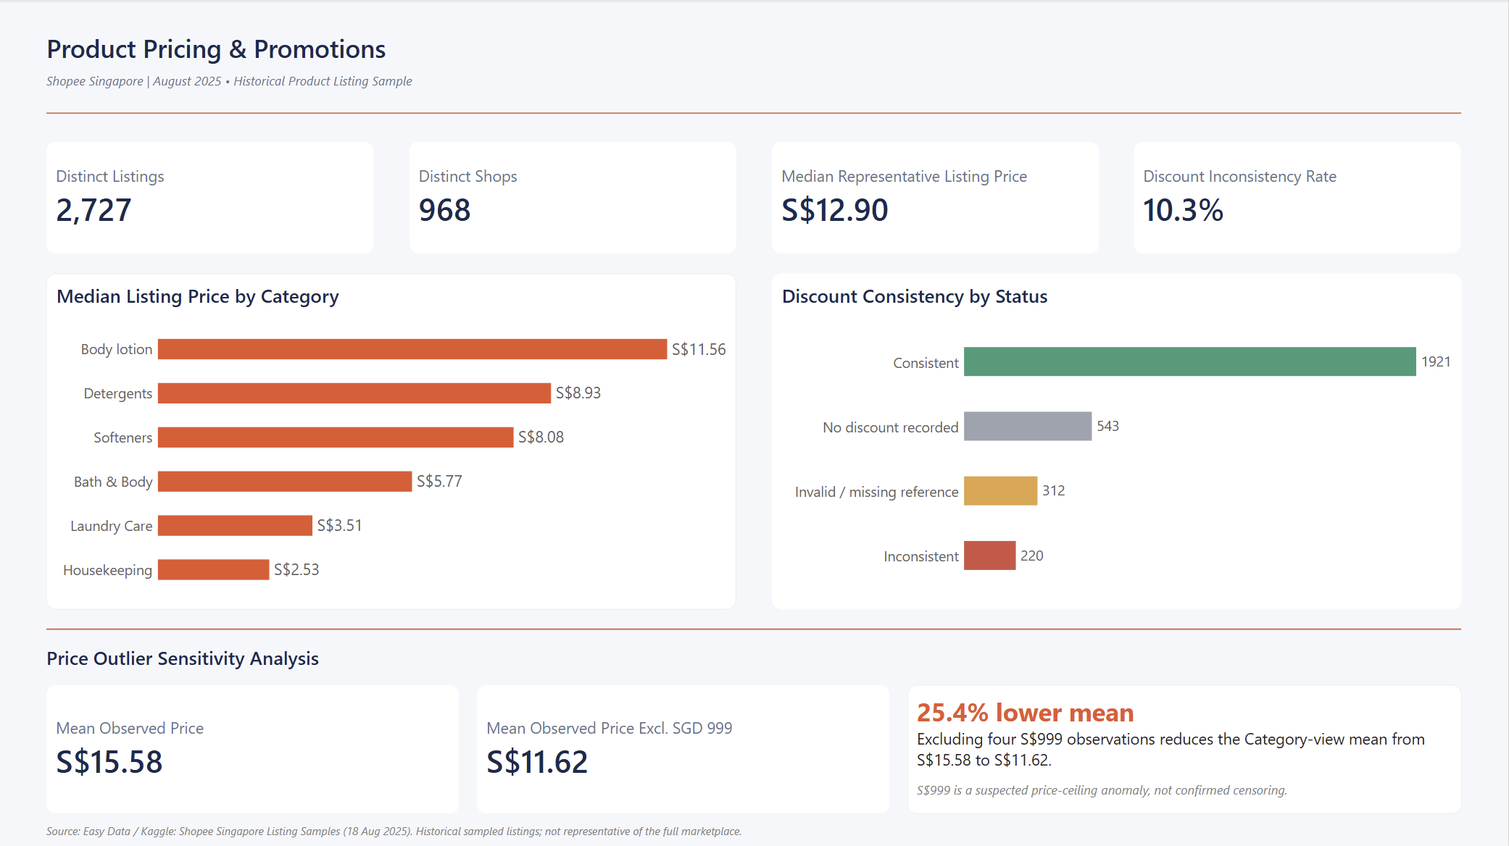
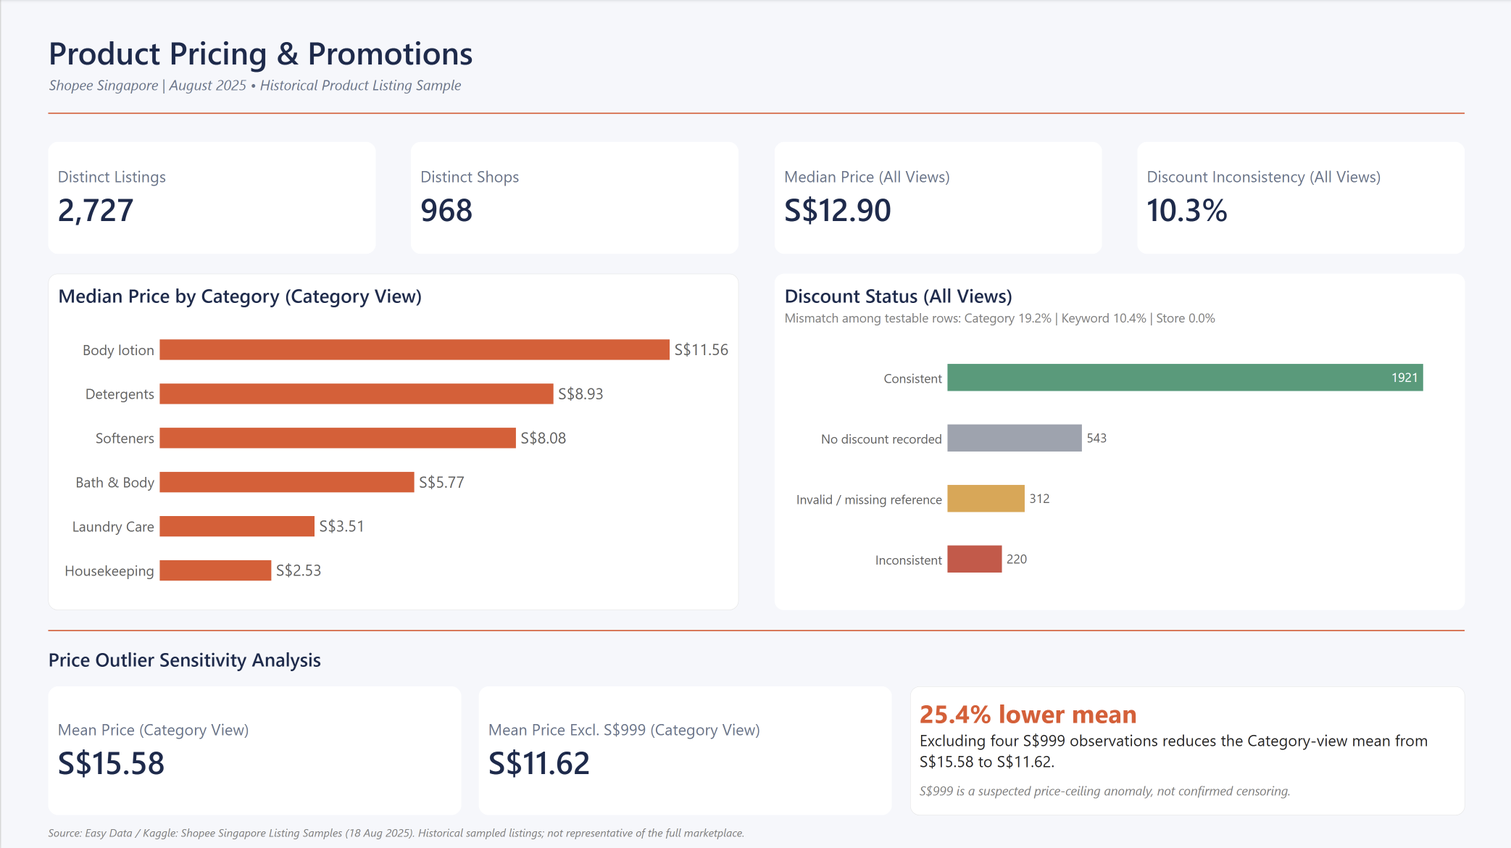
docs: align ecommerce portfolio with final dashboard and audit
- Replace both dashboard screenshots with the final versions; Page 2 file is
  now 02_seller_landscape_ratings_and_sponsorships.png (old file removed)
- README: clarify pooled median and discount rate, report all 24 SGD 999
  observations, correct overstated validation wording, add "How the results
  were checked"
- Power BI guides: separate original design, final as-built, independently
  verified and unverified information; document final labels and interactions

diff --git a/README.md b/README.md
@@ -44,14 +44,14 @@ marketplace (full scope and sampling bias discussion in `docs/STAGE1_DATASET_REV
 
 | Stage | Tooling | Output |
 |---|---|---|
-| 1. Acquisition and inspection | Python, pandas, openpyxl | I independently verified every publisher-reported figure directly from the raw files |
+| 1. Acquisition and inspection | Python, pandas, openpyxl | The publisher's headline counts (rows, listings, shops, per-view totals) reproduced directly from the raw files |
 | 2. Cleaning and EDA | Python, pandas, matplotlib, Jupyter | Observation-level and unique-listing cleaned datasets, plus 7 EDA charts |
-| 3. Business analysis | DuckDB SQL | 7 business questions, executed and reconciled against Stages 1 and 2 with zero discrepancies |
-| 4 to 5. Dashboard | Power BI Desktop | A single-table model, 15+ DAX measures, and a two-page QHD (2560x1440) report, built manually and verified against the SQL outputs |
+| 3. Business analysis | DuckDB SQL | 7 business questions; the runner automatically checks row, listing and shop totals against Stages 1 and 2 |
+| 4 to 5. Dashboard | Power BI Desktop | A single-table model, 15+ DAX measures, and a two-page QHD (2560x1440) report, built manually; displayed values compared with the SQL outputs |
 
 Each stage's methodology, corrections, and validation results are documented in full
-under `docs/` (see Repository structure below). I reviewed each stage independently
-before moving on to the next.
+under `docs/` (see Repository structure below). What was and wasn't verified, and by
+whom, is summarised in "How the results were checked" below.
 
 ## Dashboard
 
@@ -59,20 +59,30 @@ before moving on to the next.
 
 ![Product Pricing & Promotions dashboard page](dashboard/screenshots/01_pricing_promotions.png)
 
+The four headline cards are labelled "(All Views)" where they pool the Category,
+Keyword and Store samples. The median price uses one representative observation per
+distinct listing (the latest crawl), and the discount inconsistency rate is 220
+mismatches among 2,141 testable observations. Neither is an estimate for the whole
+Shopee marketplace. The category chart and the S$999 sensitivity cards use the Category
+view only.
+
 ### Page 2: Seller Landscape, Ratings & Sponsorship
 
-![Seller Landscape, Ratings & Sponsorship dashboard page](dashboard/screenshots/02_seller_landscape_ratings_sponsorship.png)
+![Seller Landscape, Ratings & Sponsorship dashboard page](dashboard/screenshots/02_seller_landscape_ratings_and_sponsorships.png)
 
-Both screenshots show aggregate figures only, with no row-level listing data. I'm
-publishing them here as original analytical outputs of this project.
+Both screenshots show aggregate figures only (Page 2 includes store-level aggregates
+for the 12 sampled stores), with no row-level listing data. I'm publishing them here as
+original analytical outputs of this project.
+
+Cross-visual interactions are switched off on both pages, so clicking a bar, row or
+segment doesn't filter any other visual. This stops figures from different sampling
+views being filtered against each other.
 
 The PBIX file itself is **not** published (see Licensing below). The model, DAX, and
 page-by-page build instructions are documented under `docs/POWER_BI_MODEL_GUIDE.md`,
-`docs/POWER_BI_DAX_GUIDE.md`, and `docs/POWER_BI_DASHBOARD_BUILD_GUIDE.md`. The build
-guide was written before the dashboard was built, and a short "Final as-built
-dashboard" section at the top of it documents a few adjustments made during
-construction, like one KPI card and two chart-label fields that ended up different
-from the original plan.
+`docs/POWER_BI_DAX_GUIDE.md`, and `docs/POWER_BI_DASHBOARD_BUILD_GUIDE.md`. Each guide
+opens with a status section separating the original design from the final as-built
+dashboard, and listing what has and hasn't been independently verified.
 
 ## Key findings
 
@@ -82,17 +92,26 @@ DuckDB) and match what's shown in the dashboard screenshots above.
 - I found **2,727** distinct listings sampled across 968 distinct shops (2,996 total
   observations across the three collection views, with 63 listings appearing in more
   than one view).
-- Median listing price is **SGD 12.90** across all sampled listings. By category,
-  medians range from SGD 2.53 (Housekeeping) to SGD 11.56 (Body lotion).
-- **Suspected, unconfirmed price-ceiling pattern at SGD 999:** excluding the 4
-  Category-view observations recorded at exactly SGD 999 drops the Category-view mean
-  price from SGD 15.58 to SGD 11.62 (a 25.4% drop), while shifting category medians by
-  at most SGD 0.12. Medians are robust to this anomaly; means are not.
+- The median price is **SGD 12.90** across the combined sample (one representative
+  observation per distinct listing, pooled over the Category, Keyword and Store views).
+  Because the three views were sampled differently, this isn't a typical Shopee price:
+  the Category view's own median is SGD 6.41, and category medians range from SGD 2.53
+  (Housekeeping) to SGD 11.56 (Body lotion).
+- **Suspected, unconfirmed anomaly at SGD 999:** excluding the 4 Category-view
+  observations recorded at exactly SGD 999 drops the Category-view mean price from
+  SGD 15.58 to SGD 11.62 (a 25.4% drop), while shifting category medians by at most
+  SGD 0.12. Medians are robust to this anomaly; means are not. The sensitivity check
+  covers the Category view only. Across all three views there are 24 observations at
+  SGD 999 (4 Category, 1 Keyword, 19 Store; 22 distinct listings) and none between
+  SGD 900 and 998. Whether this is a platform cap, a placeholder or genuine pricing is
+  unknown.
 - The recorded "discount" field disagrees with the price-implied discount in **19.2%**
   of Category-view rows and **10.4%** of Keyword-view rows that have a testable
-  discount (both values available), or **10.3%** across all testable rows overall.
-  The Store view's 312 "-1" reference-price rows are excluded from testing as
-  sentinel values, not treated as a real discount of 0%.
+  discount (both values available), and 0.0% of the 687 testable Store-view rows. The
+  pooled figure is **10.3%** (220 of 2,141 testable observations); the Store view's
+  zero mismatches pull it down, so it describes this mix of views rather than the
+  marketplace. The Store view's 312 "-1" reference-price rows are excluded from testing
+  as sentinel values, not treated as a real discount of 0%.
 - **56.7%** of sampled Keyword-view search results are flagged sponsored, and
   sponsorship share varies widely by search term.
 - Recorded ratings cluster tightly and high (median 4.92 among 2,713 rated
@@ -106,8 +125,8 @@ or satisfaction data.
 
 ## Data-quality methodology and limitations
 
-- I independently reproduced every publisher-reported figure in the source dataset's
-  documentation from the raw files before relying on it (Stage 1).
+- I reproduced the publisher's headline figures (row, listing, shop and per-view
+  counts) from the raw files before relying on the data (Stage 1).
 - Identifiers (`shop_id`, `product_id`, `listing_key`) are retained as strings
   throughout to avoid precision loss. I used a documented, deterministic rule (latest
   observed `crawl_time`) wherever a single "representative" price per listing is
@@ -122,6 +141,28 @@ or satisfaction data.
 - Main limitations: a narrow, curated sample (6 categories, 17 keywords, 12 stores), a
   single-day snapshot, an unresolved and suspected price-recording anomaly at SGD 999,
   and dataset reuse-licensing uncertainty (see below).
+
+### How the results were checked
+
+- **Automated, in the scripts:** a SHA-256 check of the raw files (the cleaning script
+  stops if they changed); Stage 2 totals for rows, listings, shops and excluded
+  incomplete rows, plus conversion-failure counts, recorded in
+  `results/stage2/cleaning_validation_report.json` (all zero); and a Stage 3 runner check
+  of total observations, distinct listings and shops, the cross-view overlap total, the
+  discount-status total and the Category-view listing count (the runner stops if one
+  fails). These are consistency checks on totals. They don't re-derive each price,
+  discount, rating or sponsorship statistic.
+- **Independent re-run (20 November 2026):** a final review re-ran cleaning and the
+  seven SQL queries from the raw Kaggle files. Outputs matched the published results
+  (only the row order of tied values and one last-decimal float differed). It also
+  recomputed the headline figures separately in pandas: median prices, the 999
+  sensitivity, discount mismatch rates, sponsorship share and ratings. They matched.
+- **Dashboard:** displayed values match the SQL outputs. I compared six DAX formulas in
+  Power BI Desktop against the documentation (listed in the DAX guide), and configured
+  the interactions manually. A read-only check of the saved report file confirmed the
+  intended interaction settings.
+- **Not done:** the other DAX measures weren't inspected, and the interactions weren't
+  click-tested by the reviewers. The PBIX isn't published, so readers can't check it.
 
 Full stage-by-stage methodology, every correction applied during independent review,
 and every validation check are documented under `docs/`.

diff --git a/docs/POWER_BI_DASHBOARD_BUILD_GUIDE.md b/docs/POWER_BI_DASHBOARD_BUILD_GUIDE.md
@@ -1,13 +1,24 @@
 # Power BI Dashboard Build Guide: Stage 4
 
-**This document is the original Stage 4 construction plan, written before the
-dashboard existed.** The report has since been built. Most of this plan matches what
-was actually built, but it is a specification, not a guaranteed description of the
-final result. See the "Final as-built dashboard" section immediately below for what
-the published report actually contains, confirmed from the dashboard screenshots and
-a read-only inspection of the PBIX; everything from "Page 1" onward after that
-section is the historical plan, kept for its design reasoning and because most of it
-still holds.
+**This document combines the final as-built description (immediately below) with the
+original Stage 4 construction plan, written before the dashboard existed.** The report
+has since been built. Most of the plan matches what was built, but it is a
+specification, not a description of the final result. Where the two differ, the
+as-built section wins. Everything from "Original Stage 4 construction plan" onward is
+the historical plan, kept for its design reasoning. In particular, its "Edit
+Interactions" tables, its Page 2 design and its chart and card names are superseded.
+
+**What the as-built section rests on (updated 20 November 2026):**
+- *Verified independently, read-only:* the two current screenshots; the page, visual,
+  field-binding and cross-visual interaction definitions in the saved PBIX's report
+  layer (static JSON, nothing opened or saved in Power BI); and the match between the
+  screenshot values and the SQL outputs.
+- *Owner-reported:* the final labels and titles, and the interaction settings, were
+  set manually in Power BI Desktop. Six DAX formulas were compared against
+  `docs/POWER_BI_DAX_GUIDE.md` and matched (see that guide).
+- *Not verified:* interaction behaviour wasn't click-tested by anyone but the owner;
+  most DAX formulas haven't been independently inspected; the compressed data model
+  can't be read outside Power BI Desktop; the PBIX isn't published.
 
 Canvas: **2560 x 1440 px (16:9 QHD)** for both pages, confirmed accurate in the final
 report. Coordinates throughout the historical plan below were always suggested
@@ -19,11 +30,13 @@ re-verified against the final visual placement.
 ## Final as-built dashboard
 
 Confirmed from `dashboard/screenshots/01_pricing_promotions.png` and
-`dashboard/screenshots/02_seller_landscape_ratings_sponsorship.png`, plus a read-only
-inspection of the PBIX's page and visual definitions (no PBIX content was changed or
-saved). Visual coordinates, conditional-formatting thresholds, slicer behavior, and
-DAX expressions beyond what's already documented in `docs/POWER_BI_DAX_GUIDE.md`
-aren't independently confirmable this way and aren't claimed here.
+`dashboard/screenshots/02_seller_landscape_ratings_and_sponsorships.png` (the Page 2
+file replaced an earlier version named `02_seller_landscape_ratings_sponsorship.png`,
+which is no longer in the repository), plus a read-only inspection of the PBIX's page
+and visual definitions (no PBIX content was changed or saved). Visual coordinates,
+conditional-formatting thresholds and DAX expressions beyond what's documented in
+`docs/POWER_BI_DAX_GUIDE.md` aren't independently confirmable this way and aren't
+claimed here.
 
 **Pages.** Two published pages, both built at 2560x1440 as planned, plus a third,
 private "Validation" page (1920x1080, 4 KPI cards only) that isn't part of the
@@ -31,20 +44,26 @@ published dashboard and doesn't appear in either screenshot.
 
 ### Page 1: "Product Pricing & Promotions"
 
-- Four KPI cards: Distinct Listings 2,727; Distinct Shops 968; Median Representative
-  Listing Price S$12.90; and **Discount Inconsistency Rate 10.3%**. The fourth card
-  is a confirmed change from the original plan below, which specified "Listings at
-  SGD 999" there instead (see `docs/POWER_BI_DAX_GUIDE.md`, "Stage 5 as-built model
-  additions," for that correction).
-- "Median Listing Price by Category": a horizontal bar chart, matching the original
-  plan.
-- "Discount Consistency by Status": a bar chart showing counts for four statuses,
+- Four KPI cards, labelled Distinct Listings 2,727; Distinct Shops 968; **Median
+  Price (All Views) S$12.90**; and **Discount Inconsistency (All Views) 10.3%**. The
+  median is the pooled median of one representative observation per distinct listing
+  across the Category, Keyword and Store views. The 10.3% is 220 inconsistent
+  observations among 2,141 testable ones, pooled across the same three views. Neither
+  is an estimate for the whole marketplace. The fourth card is a confirmed change from
+  the original plan below, which specified "Listings at SGD 999" there (see
+  `docs/POWER_BI_DAX_GUIDE.md`, "Stage 5 as-built model additions").
+- "Median Price by Category (Category View)": a horizontal bar chart, matching the
+  original plan.
+- "Discount Status (All Views)": a bar chart showing counts for four statuses,
   Consistent 1,921, No discount recorded 543, Invalid/missing reference 312, and
-  Inconsistent 220.
-- "Price Outlier Sensitivity Analysis": two cards, Mean Observed Price S$15.58 and
-  Mean Observed Price Excl. SGD 999 S$11.62, with a callout reading "25.4% lower
-  mean" and the required disclosure that S$999 is a suspected price-ceiling anomaly,
-  not confirmed censoring.
+  Inconsistent 220, with the subtitle "Mismatch among testable rows: Category 19.2% |
+  Keyword 10.4% | Store 0.0%".
+- "Price Outlier Sensitivity Analysis": two cards, Mean Price (Category View) S$15.58
+  and Mean Price Excl. S$999 (Category View) S$11.62, with a callout reading "25.4%
+  lower mean" for excluding four Category-view S$999 observations, and the required
+  disclosure that S$999 is a suspected price-ceiling anomaly, not confirmed censoring.
+  This check covers the Category view only. All three views hold 24 observations at
+  S$999 (4 Category, 1 Keyword, 19 Store), counted from the local source data.
 - A source attribution footer naming Easy Data and Kaggle, the 18 August 2025
   collection date, and a note that the sample isn't representative of the full
   marketplace.
@@ -64,6 +83,27 @@ published dashboard and doesn't appear in either screenshot.
 - "Sponsored vs Non-Sponsored by Keyword": a 100%-stacked column chart across all 17
   sampled keywords.
 - The same source attribution footer as Page 1.
+
+### Final cross-visual interactions (as built)
+
+All cross-visual filtering is switched off, so no visual changes any other. This stops
+figures from different sampling populations being filtered against each other.
+Configured manually in Power BI Desktop (owner-reported). A read-only check of the
+saved report definition on 20 November 2026 found an explicit "no filter" setting for
+every pair below. This is a static check of the settings, not a click test of the
+behaviour in Power BI.
+
+| Page | Selecting | Does not affect |
+|---|---|---|
+| 1 | A category-price bar | The four headline KPIs, the discount-status chart, the two price-sensitivity cards |
+| 1 | A discount-status bar | The four headline KPIs, the category-price chart, the two price-sensitivity cards |
+| 2 | A store-table row | The four KPI cards, the category-rating chart, the keyword-sponsorship chart |
+| 2 | A category-rating bar | The other visuals |
+| 2 | A keyword-sponsorship segment | The other visuals |
+
+This final configuration supersedes the "Edit Interactions" tables in the historical
+plan below, which kept some filtering (for example a Category slicer and linked store
+visuals). Neither page has a slicer in the final report.
 
 ### Confirmed model additions beyond the original plan
 

diff --git a/docs/POWER_BI_DAX_GUIDE.md b/docs/POWER_BI_DAX_GUIDE.md
@@ -1,10 +1,40 @@
-# Power BI DAX Guide: Stage 4
+# Power BI DAX Guide
 
-Preparation only. These measures have not been entered into Power BI or executed.
+## Status of this document (updated 20 November 2026)
+
+The dashboard is built. This guide began as the Stage 4 specification, written before
+any measure existed, and the measure definitions below are that original specification.
+Its wording was not changed when the dashboard was finished. What is known about the
+final build:
+
+1. **Original design.** The 15 core and 2 supporting measures below, with their
+   validation targets taken from `results/sql/` (Stage 3).
+2. **Final as-built.** The two-page report uses these measures plus three additions
+   (`Store-View Shops`, `Discount Status Label`, `Sponsored Status`; see the as-built
+   section at the end). The final card and chart titles differ from measure names; the
+   mapping is in the as-built section.
+3. **Verified independently (static, read-only).** The visual field bindings in the
+   saved report definition confirm which measures and columns each visual uses. The
+   displayed values in both screenshots match the Stage 3 SQL outputs.
+4. **Owner-reported manual comparison.** On 20 November 2026 the project owner opened
+   the PBIX in Power BI Desktop and compared six formulas against this guide:
+   `Median Representative Listing Price`, `Discount Inconsistency Rate`,
+   `Mean Observed Price`, `Mean Observed Price Excl. SGD 999`,
+   `Testable Discount Count` and `RepresentativeRank`. All six matched the
+   documented formulas. This is a manual comparison of six formulas, not an extraction
+   of the whole model, and it doesn't cover the other measures.
+5. **Not verified.** The formulas of the remaining measures, including the three
+   as-built additions, have not been independently inspected: the compressed
+   `DataModel` in the PBIX can't be read outside Power BI Desktop.
+   `Median Implied Discount` is specified below, but its presence in the final model
+   hasn't been confirmed. The PBIX isn't published (dataset licensing), so readers
+   can't check any of this directly.
+
+Where this guide says a measure "has not been executed" or lists a "validation
+target", that is historical design wording. Read the status above for the final state.
+
 Every "validation target" below is the already-executed SQL result from
-`results/sql/` (Stage 3, corrected), which these measures are designed to reproduce
-once built. Flag any mismatch found in Stage 5 for investigation rather than assuming
-the DAX is correct.
+`results/sql/` (Stage 3, corrected) that the measure is designed to reproduce.
 
 All measures assume the single table `Observations` from `docs/POWER_BI_MODEL_GUIDE.md`.
 
@@ -295,17 +325,16 @@ they appear.**
 | Mean Observed Price | (built-in filter: Category view only) | SGD 15.58 | price_999_sensitivity_overall.csv |
 | Mean Observed Price Excl. SGD 999 | (built-in filter: Category view only) | SGD 11.62 | price_999_sensitivity_overall.csv |
 
-## What cannot be validated without running Power BI
+## What could not be validated before the dashboard was built (historical note)
 
-Everything above is validated against the SQL outputs that these DAX expressions
-are *designed* to reproduce; the DAX itself hasn't been executed. Flag for Stage 5
-specifically: the exact behavior of `RepresentativeRank` as a calculated column
-(whether Power BI's `EARLIER` resolves as expected inside this specific table
-shape), whether `DIVIDE`'s `BLANK()` handling displays as expected in card visuals
-(versus showing `0`), and whether Power Query's type-conversion step correctly
-reads `sponsored`/`variant_comparability_uncertain` as True/False (text
-`"True"`/`"False"` in the source CSV) without manual intervention. These should be
-confirmed visually once the PBIX is built, not assumed from this document.
+When this guide was written, the DAX hadn't been run. The open questions were the exact
+behaviour of `RepresentativeRank` as a calculated column (whether Power BI's `EARLIER`
+resolves as expected in this table), whether `DIVIDE`'s `BLANK()` handling displays as
+expected in card visuals, and whether Power Query reads `sponsored` and
+`variant_comparability_uncertain` as True/False. Once the dashboard was built, the
+displayed KPI and chart values matched the SQL targets in both screenshots, which
+resolves these for the visuals shown. The owner's manual comparison of
+`RepresentativeRank` (see the status section) also found it matched this guide.
 
 ## Stage 5 as-built model additions (confirmed by Stage 6 read-only PBIX inspection)
 
@@ -344,11 +373,27 @@ enough to tell the two apart without opening Power BI).
 in the model (it's bound on the private Validation page) but isn't shown as a
 headline KPI on either published page.
 
-**Cannot be confirmed from this read-only inspection:** whether the
-`RepresentativeRank` calculated column and the `Median Implied Discount` measure
-(both specified in this guide and the model guide) still exist in the final
-semantic model. Neither is bound to any visual on any of the three pages, which is
-consistent with either (a) still present but unused in any visual, which is
-expected for `RepresentativeRank` since it was always meant to be hidden and used
-only inside another measure's filter, or (b) removed. Opening the PBIX in Power BI
-would resolve this; that hasn't been done here.
+**Final card and chart labels (display text only; the measures and their DAX are
+unchanged).** Updated 20 November 2026 so pooled figures say what they pool:
+
+| Displayed label | Measure used | Value |
+|---|---|---|
+| Distinct Listings | `Distinct Listings` | 2,727 |
+| Distinct Shops | `Distinct Shops` | 968 |
+| Median Price (All Views) | `Median Representative Listing Price` | S$12.90 |
+| Discount Inconsistency (All Views) | `Discount Inconsistency Rate` | 10.3% (220 of 2,141 testable) |
+| Mean Price (Category View) | `Mean Observed Price` | S$15.58 |
+| Mean Price Excl. S$999 (Category View) | `Mean Observed Price Excl. SGD 999` | S$11.62 |
+
+Chart titles: "Median Price by Category (Category View)" and "Discount Status (All Views)",
+the latter with the subtitle "Mismatch among testable rows: Category 19.2% | Keyword
+10.4% | Store 0.0%". The S$999 sensitivity cards deliberately cover only the four
+Category-view observations at S$999; the dataset holds 24 across all three views (see
+the README).
+
+**Status of `RepresentativeRank` and `Median Implied Discount`.** Neither is bound to
+any visual, so the read-only inspection of visual bindings couldn't show whether they
+still exist. The owner's manual check on 20 November 2026 found `RepresentativeRank`
+present and matching this guide, which is consistent with its role as a hidden column
+used inside `Median Representative Listing Price`. Whether `Median Implied Discount`
+still exists in the final model remains unconfirmed.

diff --git a/docs/POWER_BI_MODEL_GUIDE.md b/docs/POWER_BI_MODEL_GUIDE.md
@@ -1,7 +1,26 @@
-# Power BI Model Guide: Stage 4
+# Power BI Model Guide
 
-Preparation only. No PBIX/PBIP file has been created, and Power BI has not been opened
-as part of this stage. This guide is for manual construction in Stage 5.
+## Status of this document (updated 20 November 2026)
+
+The dashboard is built. This guide began as the Stage 4 design, written before any
+PBIX existed, and the model design below is that original specification. Its wording
+was not changed when the dashboard was finished.
+
+1. **Original design.** A single imported table, `Observations`, built from
+   `data/processed/listings_observations.csv`, with no relationships.
+2. **Final as-built.** The saved PBIX's model diagram lists a single table named
+   `Observations`, consistent with the design. Additions to the final model are
+   described in `docs/POWER_BI_DAX_GUIDE.md` ("Stage 5 as-built model additions").
+3. **Verified independently (static, read-only).** The diagram layout shows one table;
+   the visual field bindings are consistent with the single-table design.
+4. **Owner-reported.** `RepresentativeRank` (the calculated column described below)
+   was compared with this guide in Power BI Desktop on 20 November 2026 and matched.
+5. **Not verified.** Column types, hidden fields and the remaining model internals
+   can't be read outside Power BI Desktop, because the data model in the PBIX is
+   compressed. The PBIX isn't published (dataset licensing).
+
+Where the text below says no PBIX exists or Power BI hasn't been opened, that is
+historical wording from the design stage.
 
 ## Model shape: single table, no relationships
 
